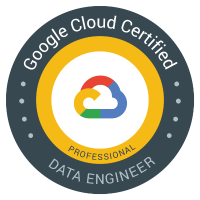
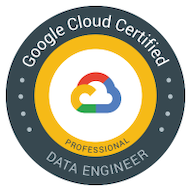
Adjust images size

diff --git a/_posts/2022-06-22-top-8-data-engineering-certifications.md b/_posts/2022-06-22-top-8-data-engineering-certifications.md
@@ -50,7 +50,7 @@ professional certifications of the most popular cloud providers.
 Specialty](https://aws.amazon.com/certification/certified-big-data-specialty/)
 
 <p align="center">
-  <img src="/imgs/top-8-data-engineering-certifications/image2.png" wight="150px" />
+  <img src="/imgs/top-8-data-engineering-certifications/image2.png" />
 </p>
 
 AWS Certified Big Data Specialty certification is designed for those who
@@ -79,7 +79,7 @@ least two years of experience in using AWS technologies.
     Engineer](https://cloud.google.com/certification/data-engineer)
 
 <p align="center">
-  <img src="/imgs/top-8-data-engineering-certifications/image3.png" wight="150px" />
+  <img src="/imgs/top-8-data-engineering-certifications/image3.png" />
 </p>
 
 The Data Engineer provides decision-making by collecting, converting,
@@ -114,7 +114,7 @@ use, deploy, and continuously train existing machine learning models.
 DP-203](https://docs.microsoft.com/en-us/learn/certifications/exams/dp-203)
 
 <p align="center">
-  <img src="/imgs/top-8-data-engineering-certifications/image4.png" wight="150px" />
+  <img src="/imgs/top-8-data-engineering-certifications/image4.png" />
 </p>
 
 Data engineers specializing in the Azure platform help understand data
@@ -144,8 +144,8 @@ the certification of cloud providers mentioned earlier.
 Professional](https://databricks.com/learn/certification#data-engineer)
 
 <p align="center">
-  <img src="/imgs/top-8-data-engineering-certifications/image5.png" wight="150px" />
-  <img src="/imgs/top-8-data-engineering-certifications/image6.png" wight="150px" />
+  <img src="/imgs/top-8-data-engineering-certifications/image5.png" />
+  <img src="/imgs/top-8-data-engineering-certifications/image6.png" />
 </p>
 
 This certification is intended for those who use the Databricks
@@ -166,7 +166,7 @@ MLflow, Databricks CLI, and REST API.
 Engineer](https://www.snowflake.com/certifications/)
 
 <p align="center">
-  <img src="/imgs/top-8-data-engineering-certifications/image7.png" wight="150px" />
+  <img src="/imgs/top-8-data-engineering-certifications/image7.png" />
 </p>
 
 This certification is suitable for engineers who have at least two years
@@ -189,7 +189,7 @@ evaluate performance, and share data between cloud platforms.
 Engineer](https://www.cloudera.com/about/training/certification/cdhhdp-certification/ccp-data-engineer.html)
 
 <p align="center">
-  <img src="/imgs/top-8-data-engineering-certifications/image8.png" wight="150px" />
+  <img src="/imgs/top-8-data-engineering-certifications/image8.png" />
 </p>
 
 An experienced engineer who can perform the basic tasks of data
@@ -211,7 +211,7 @@ Engineer.
 Kafka®](https://www.confluent.io/certification/#faqs)
 
 <p align="center">
-  <img src="/imgs/top-8-data-engineering-certifications/image9.png" wight="150px" />
+  <img src="/imgs/top-8-data-engineering-certifications/image9.png" />
 </p>
 
 This certification is intended for developers and checks the knowledge
@@ -232,7 +232,7 @@ IBM\'s
 Engineering Professional Certificate
 
 <p align="center">
-  <img src="/imgs/top-8-data-engineering-certifications/image10.png" wight="150px" />
+  <img src="/imgs/top-8-data-engineering-certifications/image10.png" />
 </p>
 
 The program developed by Coursera will help you start your career as a
